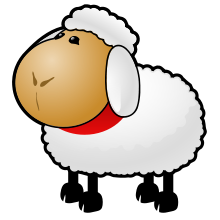
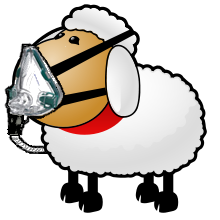
Minor bugfix and flow rate optimisations

Changed region(s): [[0.0, 0.1364, 0.6, 0.7091]]

diff --git a/Graphs/gGraphView.cpp b/Graphs/gGraphView.cpp
@@ -95,6 +95,7 @@ void InitGraphs()
         images["smiley"]=new QImage(":/icons/smileyface.png");
         //images["sad"]=new QImage(":/icons/sadface.png");
 
+        images["sheep"]=new QImage(":/icons/sheep.png");
         images["brick"]=new QImage(":/icons/brick.png");
         images["nographs"]=new QImage(":/icons/nographs.png");
         images["nodata"]=new QImage(":/icons/nodata.png");
@@ -2331,7 +2332,7 @@ void gGraphView::resizeGL(int w, int h)
     glLoadIdentity();
 }
 
-void gGraphView::renderSomethingFun()
+void gGraphView::renderSomethingFun(float alpha)
 {
     if (cubeimg.size()==0) return;
 //    glPushMatrix();
@@ -2394,7 +2395,7 @@ void gGraphView::renderSomethingFun()
 
     //glBindTexture(GL_TEXTURE_2D, cubetex); //texid[i % imgcount]);
     i++;
-    glColor4f(1,1,1,1);
+    glColor4f(1,1,1,alpha);
 
     glBegin(GL_QUADS);
     glTexCoord2f(0.0f, 0.0f); glVertex3f(-1.0f, -1.0f,  1.0f);	// Bottom Left Of The Texture and Quad
@@ -2747,8 +2748,14 @@ void gGraphView::paintGL()
         }
     }
 
+    // Need a really good condition/excuse to switch this on.. :-}
+    bool bereallyannoying=false;
+
     if (!m_inAnimation || (!m_fadingIn)) {
         // Not in animation sequence, draw graphs like normal
+        if (bereallyannoying)
+            renderSomethingFun(0.7);
+
         numgraphs=renderGraphs();
 
         if (!numgraphs) { // No graphs drawn?
@@ -2756,7 +2763,8 @@ void gGraphView::paintGL()
             GetTextExtent(m_emptytext,x,y,bigfont);
             int tp;
             if (something_fun && this->isVisible()) {// Do something fun instead
-                renderSomethingFun();
+                if (!bereallyannoying)
+                    renderSomethingFun();
                 tp=height()-(y/2);
             } else {
                 tp=height() / 2 + y / 2;
@@ -2800,7 +2808,7 @@ void gGraphView::paintGL()
     swapBuffers(); // Dump to screen.
 
     if (this->isVisible()) {
-        if (m_limbo || m_inAnimation || (something_fun && !numgraphs)) {
+        if (m_limbo || m_inAnimation || (something_fun && (bereallyannoying || !numgraphs))) {
             redrawtimer->setInterval(1000.0/50);
             redrawtimer->setSingleShot(true);
             redrawtimer->start();

diff --git a/Graphs/gLineChart.cpp b/Graphs/gLineChart.cpp
@@ -520,10 +520,11 @@ void gLineChart::paint(gGraph & w,int left, int top, int width, int height)
                     }
 
                     // Unrolling square plot outside of loop to gain a minor speed improvement.
+                    EventStoreType *eptr=dptr+siz;
                     if (square_plot) {
-                        for (int i=0;i<siz;i++) {
+                        for (; dptr < eptr; dptr++) {
                             time=start + *tptr++;
-                            data=gain  * *dptr++;
+                            data=gain * *dptr;
 
                             px=xst+((time - minx) * xmult);   // Scale the time scale X to pixel scale X
                             py=yst-((data - miny) * ymult);   // Same for Y scale without precomputed gain
@@ -553,9 +554,10 @@ void gLineChart::paint(gGraph & w,int left, int top, int width, int height)
                             }
                         }
                     } else {
-                        for (int i=0;i<siz;i++) {
+                        for (; dptr < eptr; dptr++) {
+                        //for (int i=0;i<siz;i++) {
                             time=start + *tptr++;
-                            data=gain  * *dptr++;
+                            data=gain  * *dptr;
 
                             px=xst+((time - minx) * xmult);   // Scale the time scale X to pixel scale X
                             py=yst-((data - miny) * ymult);   // Same for Y scale without precomputed gain

diff --git a/daily.cpp b/daily.cpp
@@ -859,7 +859,7 @@ void Daily::Load(QDate date)
 
                 html+="</table></td>";
             } else if (cpap->machine->GetClass()==STR_MACH_Intellipap) {
-                html+="<td colspan=2 valign=top><table cellspacing=0 cellpadding=2 border=0 width='100%'>";
+                html+="<td colspan=2 valign=top><table cellspacing=0 cellpadding=1 border=0 width='100%'>";
                 html+=QString("<tr><td align='left' bgcolor='%1'><b><font color='%2'><a class=info2 href='event=%6'>%3<span>%4</span></a></font></b></td><td width=20% bgcolor='%1'><b><font color='%2'>%5%</font></b></td></tr>\n")
                 .arg("#40c0c0").arg("black").arg(tr("Leak")).arg(schema::channel[CPAP_LeakFlag].description()).arg(lki,0,'f',2).arg(CPAP_LeakFlag);
 
@@ -1796,6 +1796,8 @@ void Daily::updateCube()
             GraphView->setCubeImage(images["nodata"]);
         }
     } else {
+        GraphView->setCubeImage(images["sheep"]);
+
         ui->toggleGraphs->setArrowType(Qt::DownArrow);
         ui->toggleGraphs->setToolTip(tr("Hide all graphs"));
         ui->toggleGraphs->blockSignals(true);

diff --git a/overview.cpp b/overview.cpp
@@ -517,11 +517,10 @@ void Overview::on_rangeCombo_activated(int index)
 }
 void Overview::setRange(QDate start, QDate end)
 {
-    ui->dateStart->setMaximumDate(end);
-    ui->dateEnd->setMinimumDate(start);
-
     ui->dateEnd->blockSignals(true);
     ui->dateStart->blockSignals(true);
+    ui->dateStart->setMaximumDate(end);
+    ui->dateEnd->setMinimumDate(start);
     ui->dateStart->setDate(start);
     ui->dateEnd->setDate(end);
     ui->dateEnd->blockSignals(false);

diff --git a/Graphs/gSummaryChart.cpp b/Graphs/gSummaryChart.cpp
@@ -363,8 +363,8 @@ void SummaryChart::paint(gGraph & w,int left, int top, int width, int height)
     Day * day;
     EventDataType hours;
 
-    quint32 * tptr;
-    EventStoreType * dptr;
+    //quint32 * tptr;
+    //EventStoreType * dptr;
 
     short px2,py2;
     for (qint64 Q=minx;Q<=maxx+86400000L;Q+=86400000L) {

diff --git a/Graphs/gGraphView.h b/Graphs/gGraphView.h
@@ -1020,7 +1020,7 @@ protected:
     //! \variable Scale used to enlarge graphs when less graphs than can fit on screen.
     float m_scaleY;
 
-    void renderSomethingFun();
+    void renderSomethingFun(float alpha=1);
 
     bool m_sizer_dragging;
     int m_sizer_index;
